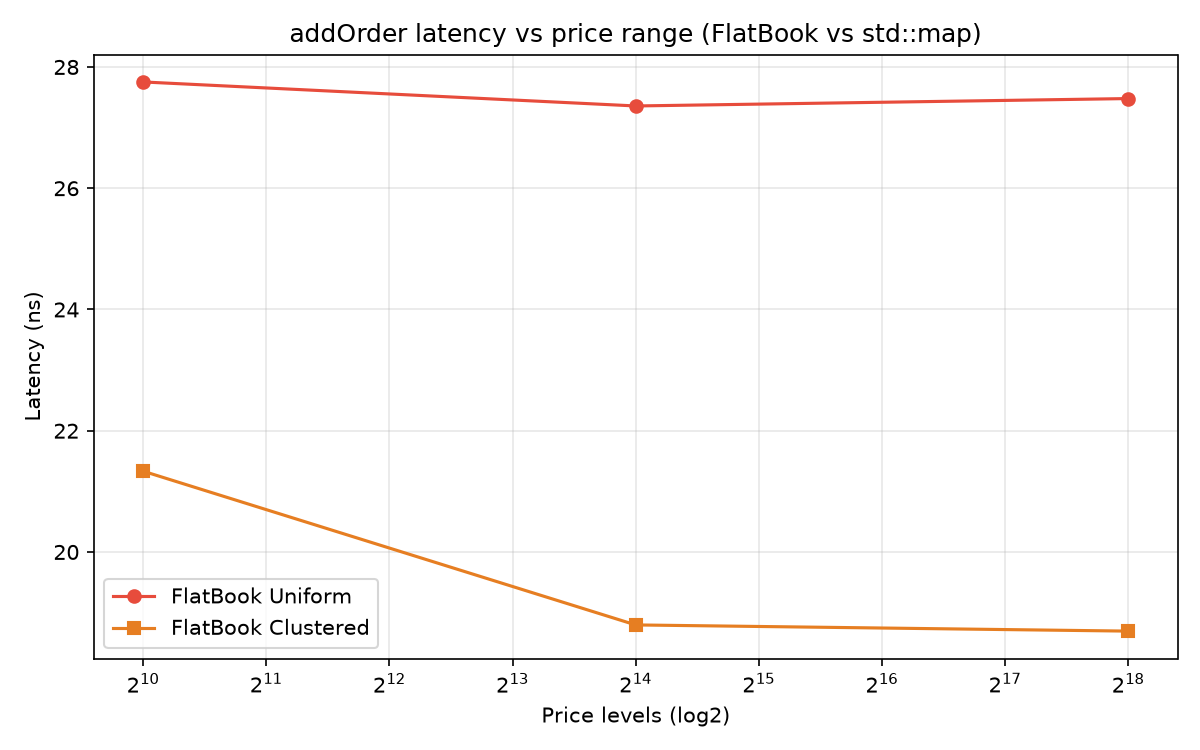
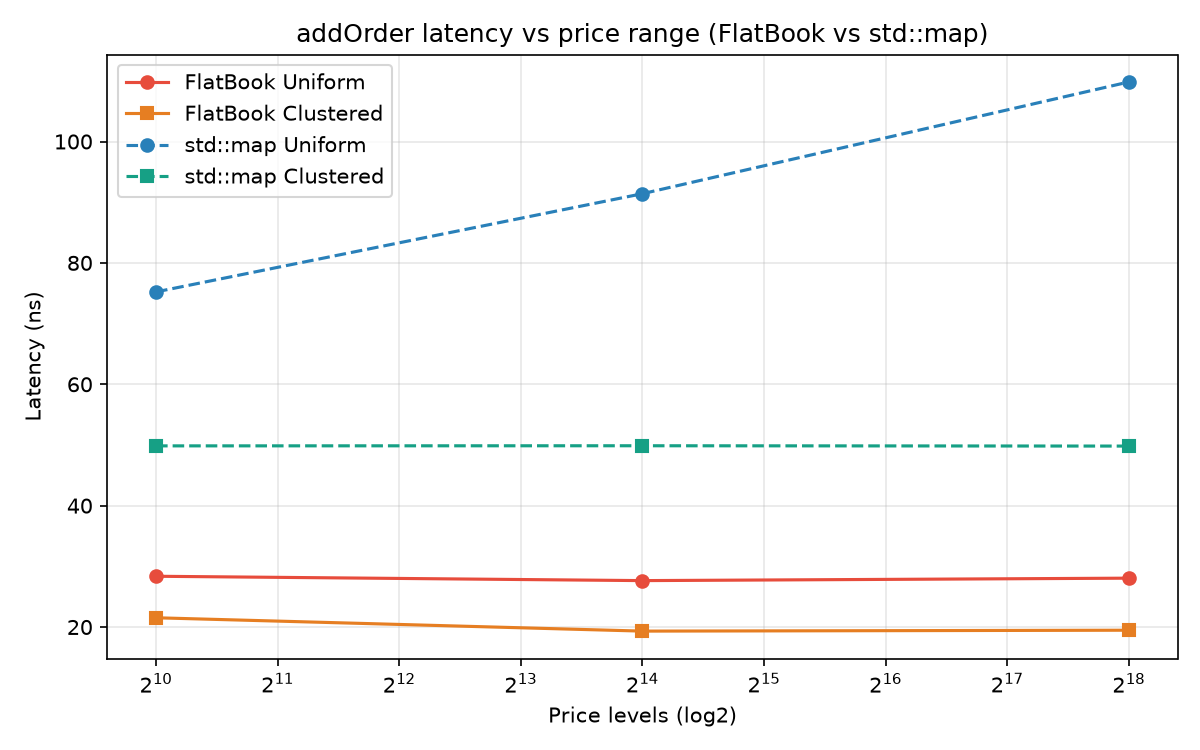
Fix plot titles (dynamic vs std::map) and regenerate plots with refs
The plot titles hardcoded 'vs std::map' even when the bench was run
without --refs, so the FlatBook-only run produced misleading titles. The
titles are now dynamic, and the docs plots are regenerated from a full
--refs run (FlatBook + std::map + CppTrader).

diff --git a/benchmarks/plot/plot_scaling.py b/benchmarks/plot/plot_scaling.py
@@ -161,9 +161,12 @@ def main():
     benchmarks = load(path)
     rows = collect(benchmarks)
 
-    plot_workload(rows, "add", "addOrder latency vs price range (FlatBook vs std::map)",
+    has_map = any(r[1] == "std::map" for r in rows)
+    suffix = " vs std::map" if has_map else ""
+
+    plot_workload(rows, "add", f"addOrder latency vs price range (FlatBook{suffix})",
                   out_dir / "add_vs_price_levels.png")
-    plot_workload(rows, "rest", "Resting-only add vs price range (FlatBook vs std::map)",
+    plot_workload(rows, "rest", f"Resting-only add vs price range (FlatBook{suffix})",
                   out_dir / "rest_vs_price_levels.png", kinds={"FlatBook", "std::map"})
     plot_workload(rows, "cancel", f"add/cancel mix ({CANCEL_RATE}% cancel) vs price range",
                   out_dir / "cancel_vs_price_levels.png")
